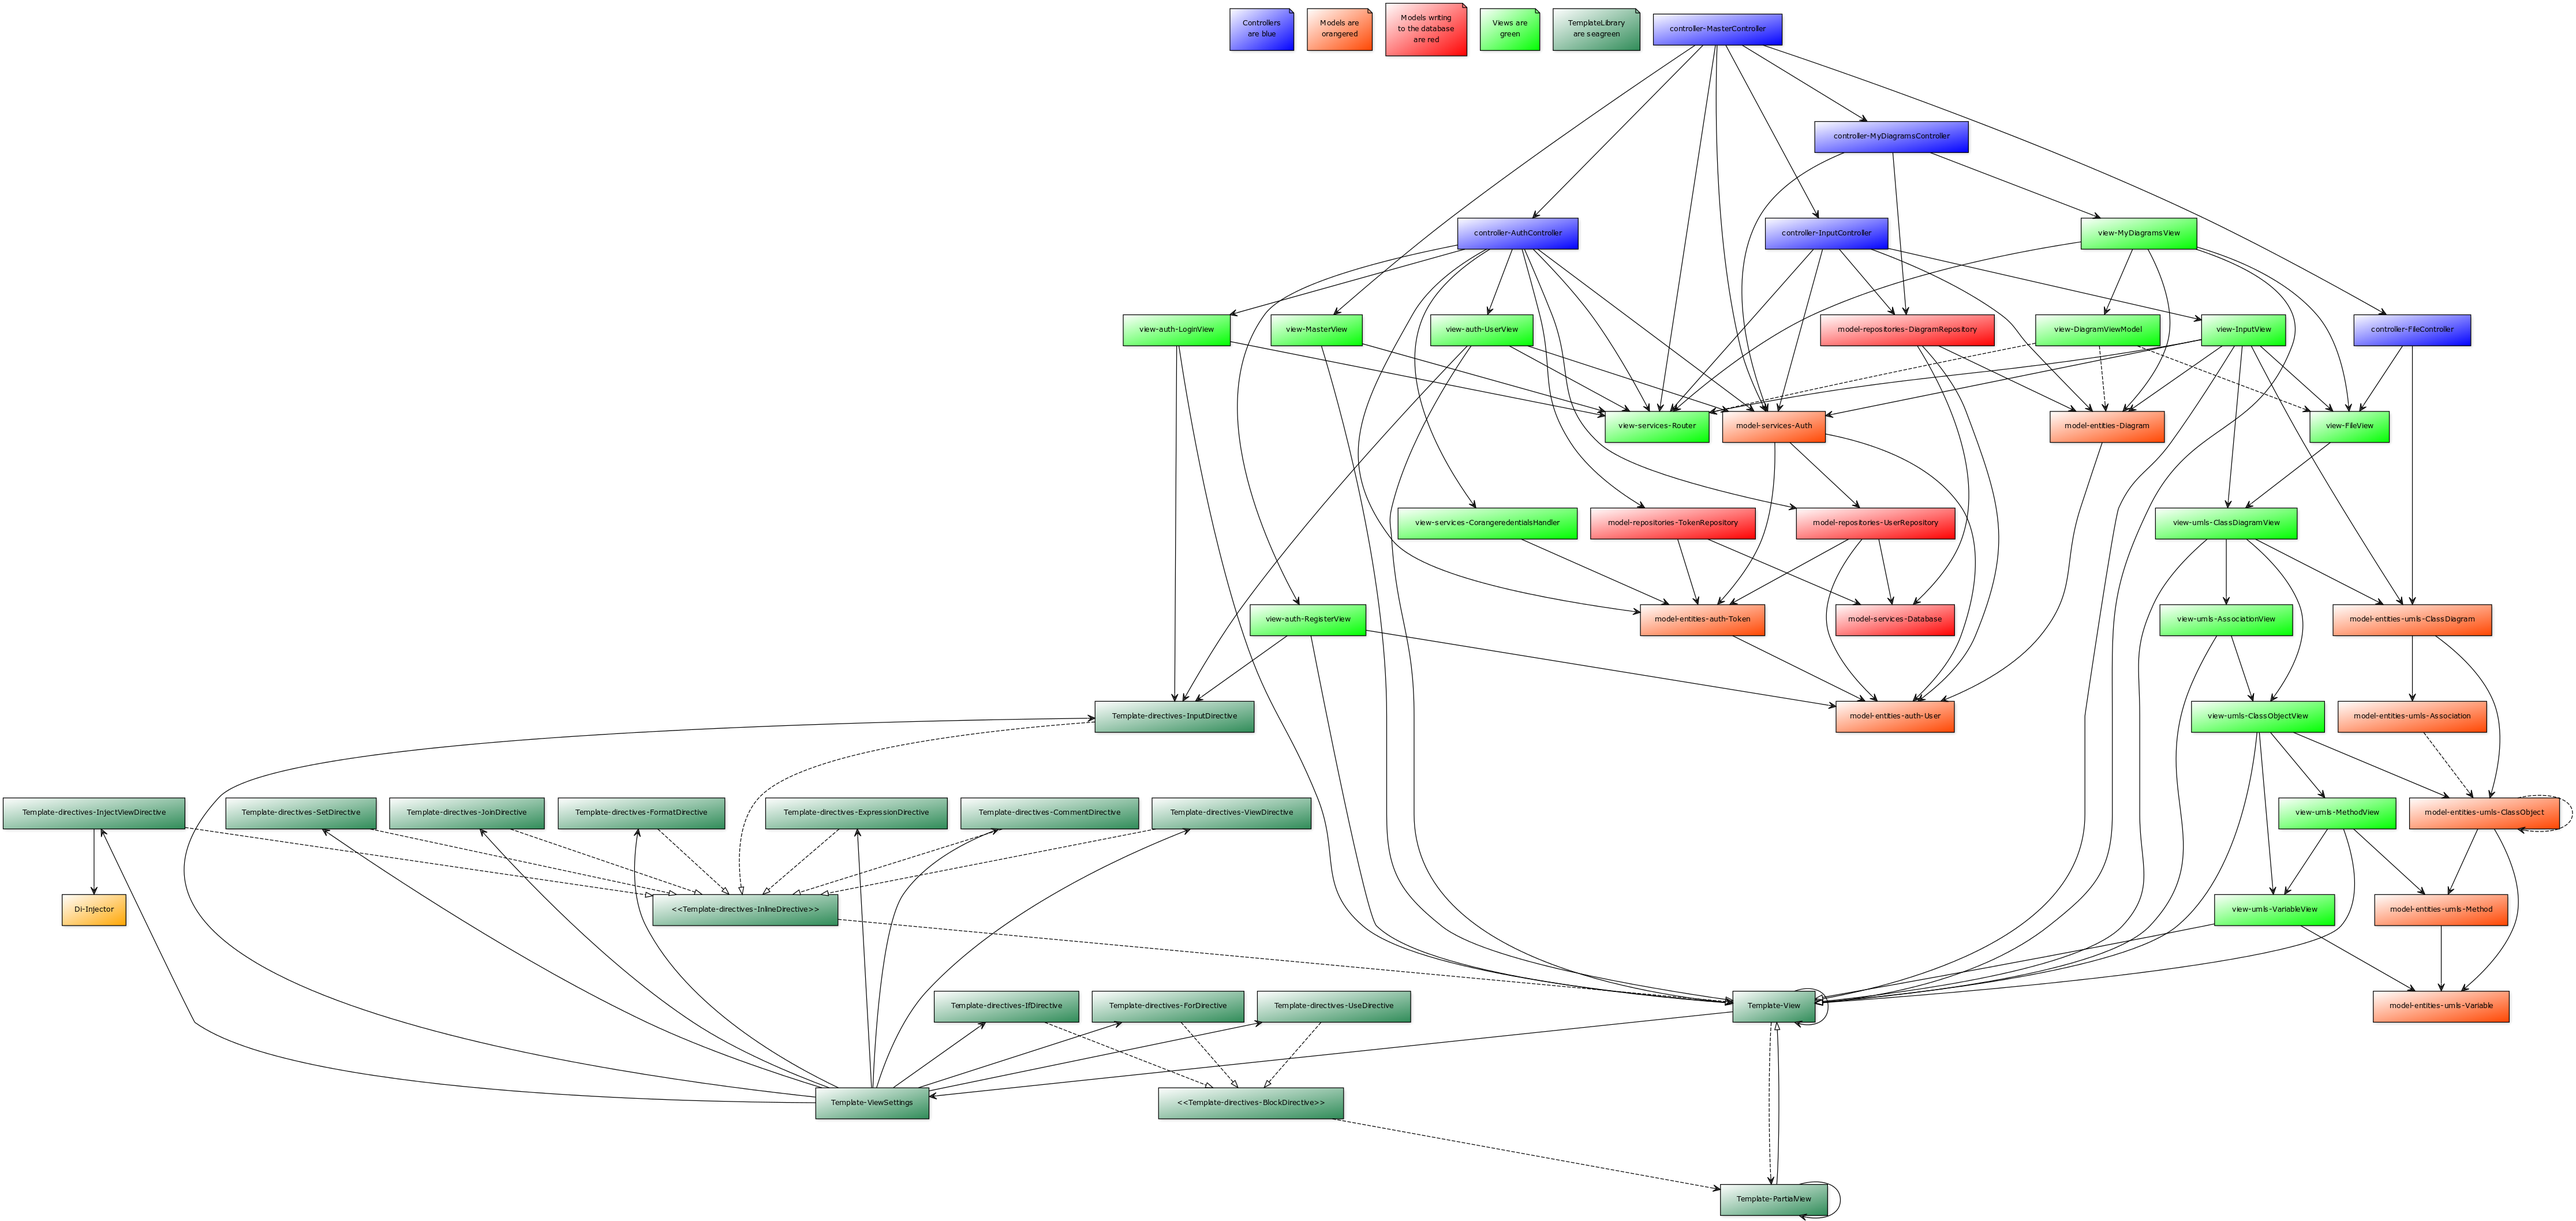
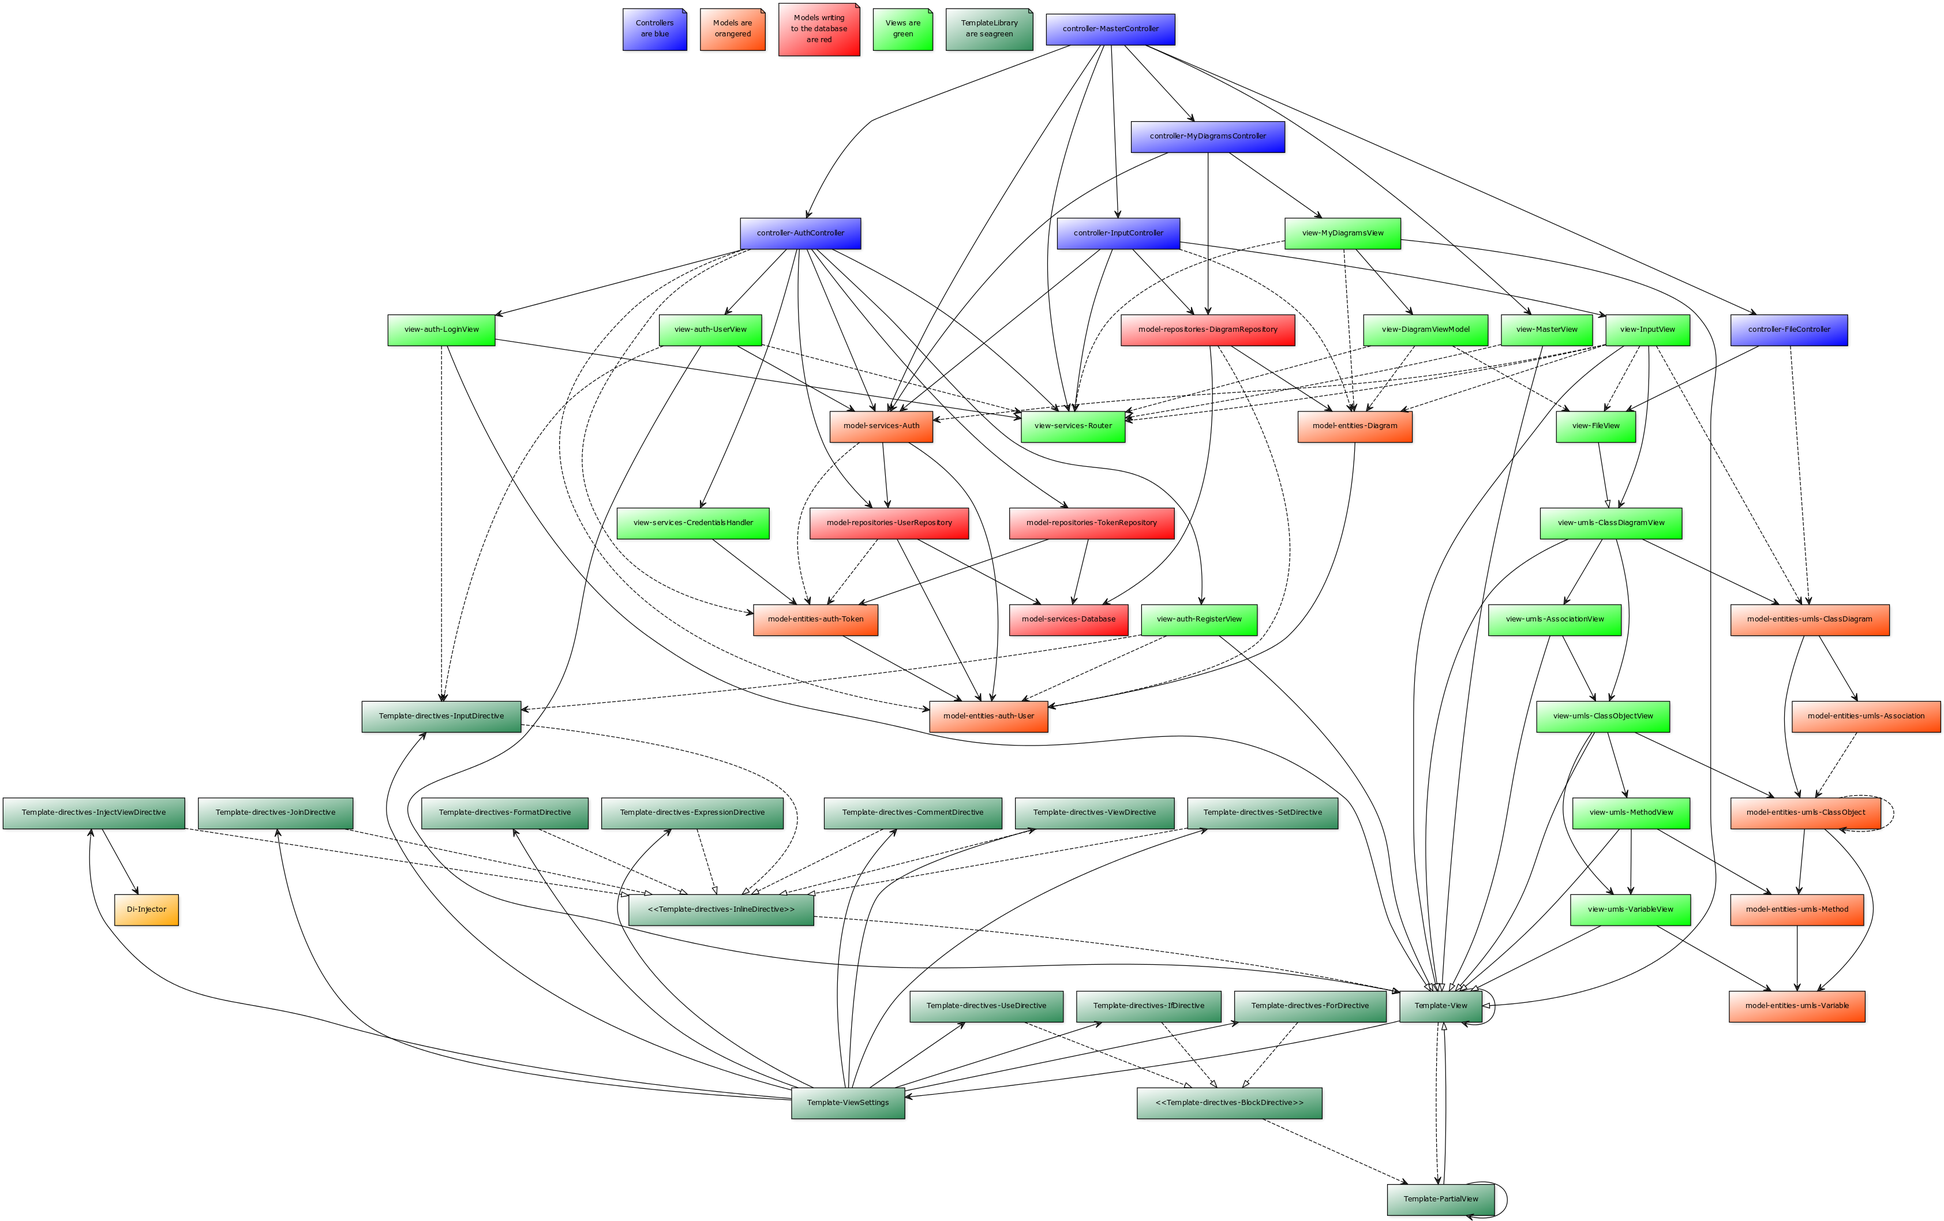
doc: Upgraded class diagram; images in syntax description; a readme

diff --git a/src/templates/input.html b/src/templates/input.html
@@ -18,6 +18,7 @@
     </form>
     <script>
         function onSubmit() {
+            // Fix pluses which otherwise would be converted to spaces by PHP
             var textarea = document.querySelector('textarea[name="umls"]');
             textarea.textContent = textarea.textContent.replace(/\+/g, '%2B');
         }

diff --git a/doc/syntax.md b/doc/syntax.md
@@ -2,19 +2,35 @@
 The syntax is designed to be similar to the rendered diagrams and is inspired of yUML.
 
 ## Class definition
-A class is defined within brackets `[User]`.
-Attributes are specified after a pipe and separated by semicolons `[User|name;age]`.
-Types can be specified as well and separates with a colon `[User|name:String;age:int]`.
-Methods are specified after a second pipe `[User|name|login()]` with or without attributes
-`[User||login()]`. Multiple methods are separated with semicolons `[User||login();logout()]`.
-Attributes are specified inside the parentheses and separated by comma `[User||login(username, password)]`.
+A class is defined within brackets `[User]`.  
+![A class](http://umls.eneman.eu/file.svg?umls=[User])
+
+Attributes are specified after a pipe and separated by semicolons `[User|name;age]`.  
+![A class with attributes](http://umls.eneman.eu/file.svg?umls=[User|name;age])
+
+Types can be specified as well and separates with a colon `[User|name:String;age:int]`.  
+![A class with typed attributes](http://umls.eneman.eu/file.svg?umls=[User|name:String;age:int])
+
+Methods are specified after a second pipe `[User|name|login()]` with or without attributes `[Diagram||draw()]`.  
+![Classes with a method](http://umls.eneman.eu/file.svg?umls=[User|name|login()][Diagram||draw()])
+
+Multiple methods are separated with semicolons `[User||login();logout()]`.  
+![A class with methods](http://umls.eneman.eu/file.svg?umls=[User||login();logout()])
+
+Attributes are specified inside the parentheses and separated by comma `[User||login(username, password)]`.  
+![A class with a method with attributes](http://umls.eneman.eu/file.svg?umls=[User||login(username, password)])
+
 Types can again be specified with colon `[User||login(username:string, password)]` and return types
-to `[User||login(username, password):bool]`.
+to `[User||login(username, password):bool]`.  
+![A class with a method with types](http://umls.eneman.eu/file.svg?umls=[User||login(username:string, password):bool])
+
 Class definitions extend each other so `[User|name;age|login()][User||logout()]`
-is the same as `[User|name;age|login(username:string, password);logout()]`.
+is the same as `[User|name;age|login(username:string, password);logout()]`.  
+![An extended class](http://umls.eneman.eu/file.svg?umls=[User|name;age|login()][User||logout()])
 
 ## Associations
-Associations are specified by binding to classes with a hyphen `[User]-[Post]`
+Associations are specified by binding to classes with a hyphen `[User]-[Post]`  
+![Associated classes](http://umls.eneman.eu/file.svg?umls=[User]-[Post])
 
 ## Future extensions
 Associations shall be extended in the future to support names, multiplicity and other kinds

diff --git a/doc/readme.md b/doc/readme.md
@@ -1,0 +1,21 @@
+# Reading the documentation
+
+## Class diagram
+While the class diagram looks messy at the first I thought it's still very interesting as it
+show all dependencies (it seems, I haven't found any that's missing and as it's auto generated
+I don't think that it have forgotten anything).
+
+If we take a closer look at the models (the red ones) we can follow the and see that none of the
+model classes have any dependency to anything other than model classes. We can also see that no
+view (the green ones) have any dependency to a class that writes to the database (the dark red ones).
+Other interesting info is than only views are dependant on my Template library (the dark green ones).
+
+
+## Use Cases
+The Use Cases are intentionally sparse as I think the [manual tests], [test report],
+[api description] and mostly the [syntax description] much better describe the application.
+
+[manual tests]: testing.md
+[test report]: test_report.md
+[api description]: api.md
+[syntax description]: syntax.md

diff --git a/readme.md b/readme.md
@@ -1,0 +1,9 @@
+# UMLS [![Build Status](https://travis-ci.org/re222dv/1DV408-Project.svg?branch=master)](https://travis-ci.org/re222dv/1DV408-Project)
+
+[Published version](http://umls.eneman.eu)
+
+## Structure
+[Documentation and Manual tests](doc/)
+[Automatic tests](test/)
+[Source code](src/)
+[Source code to be treated as external libs](src/lib/)
